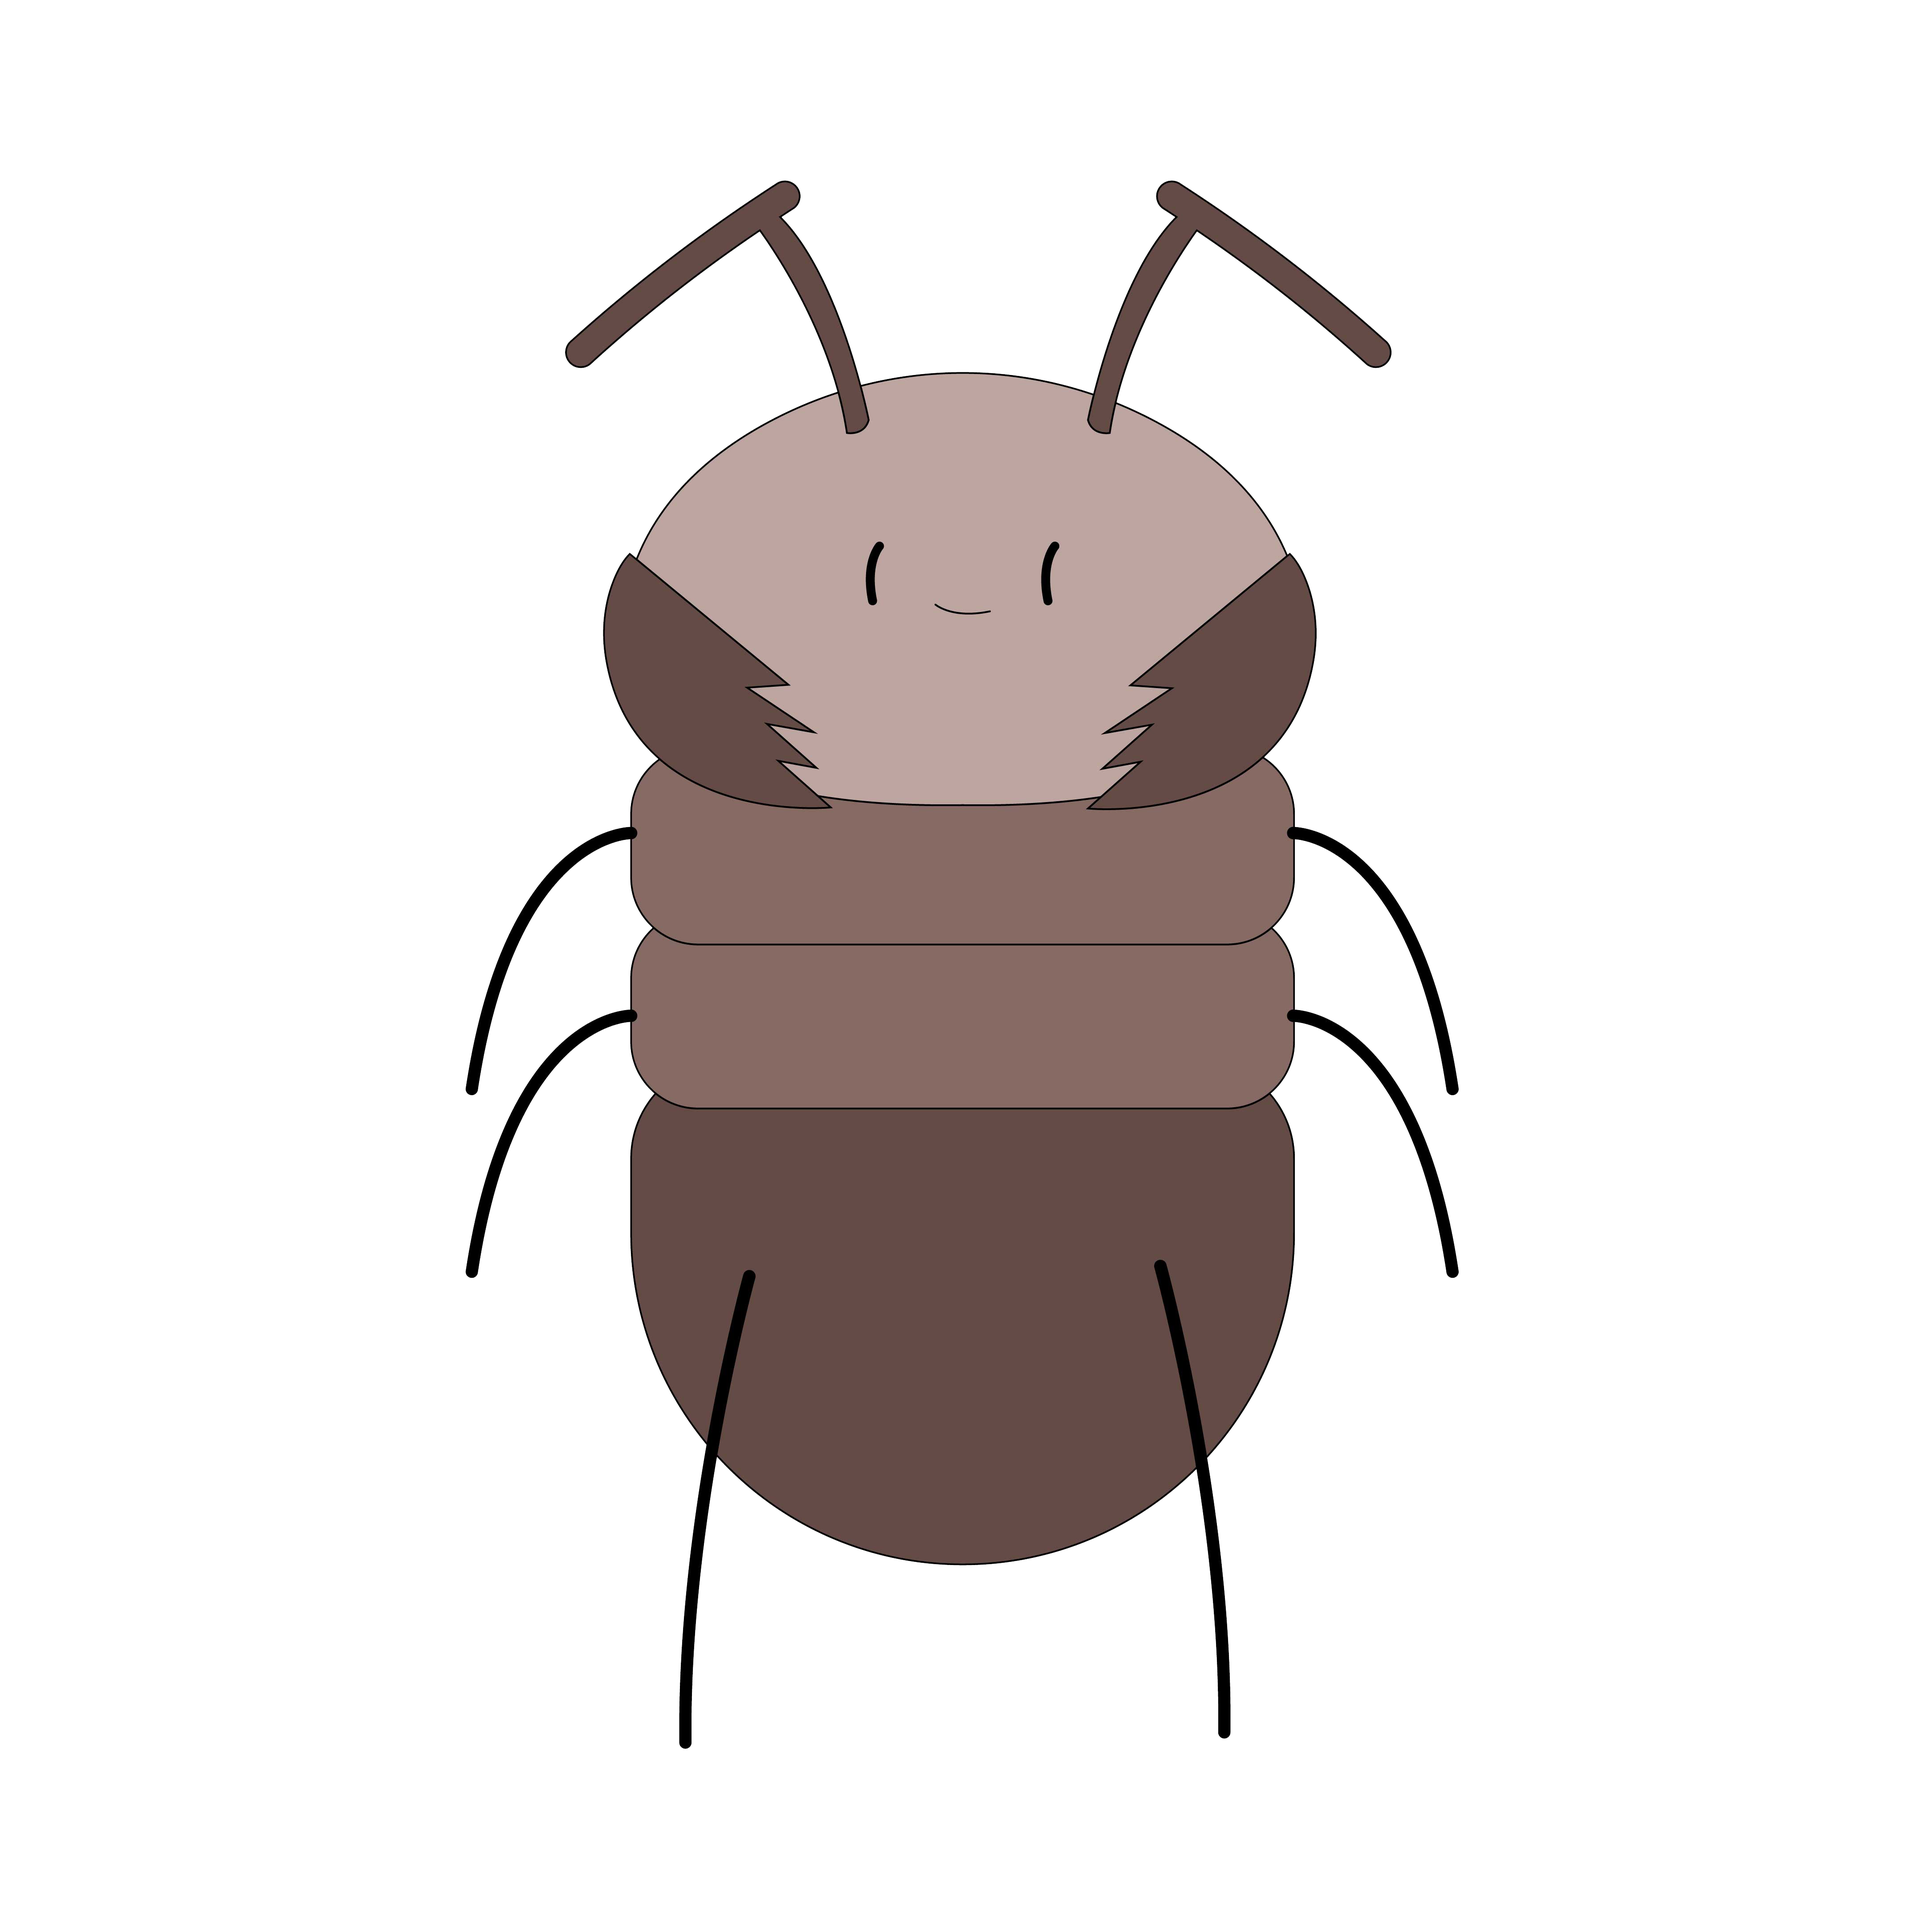
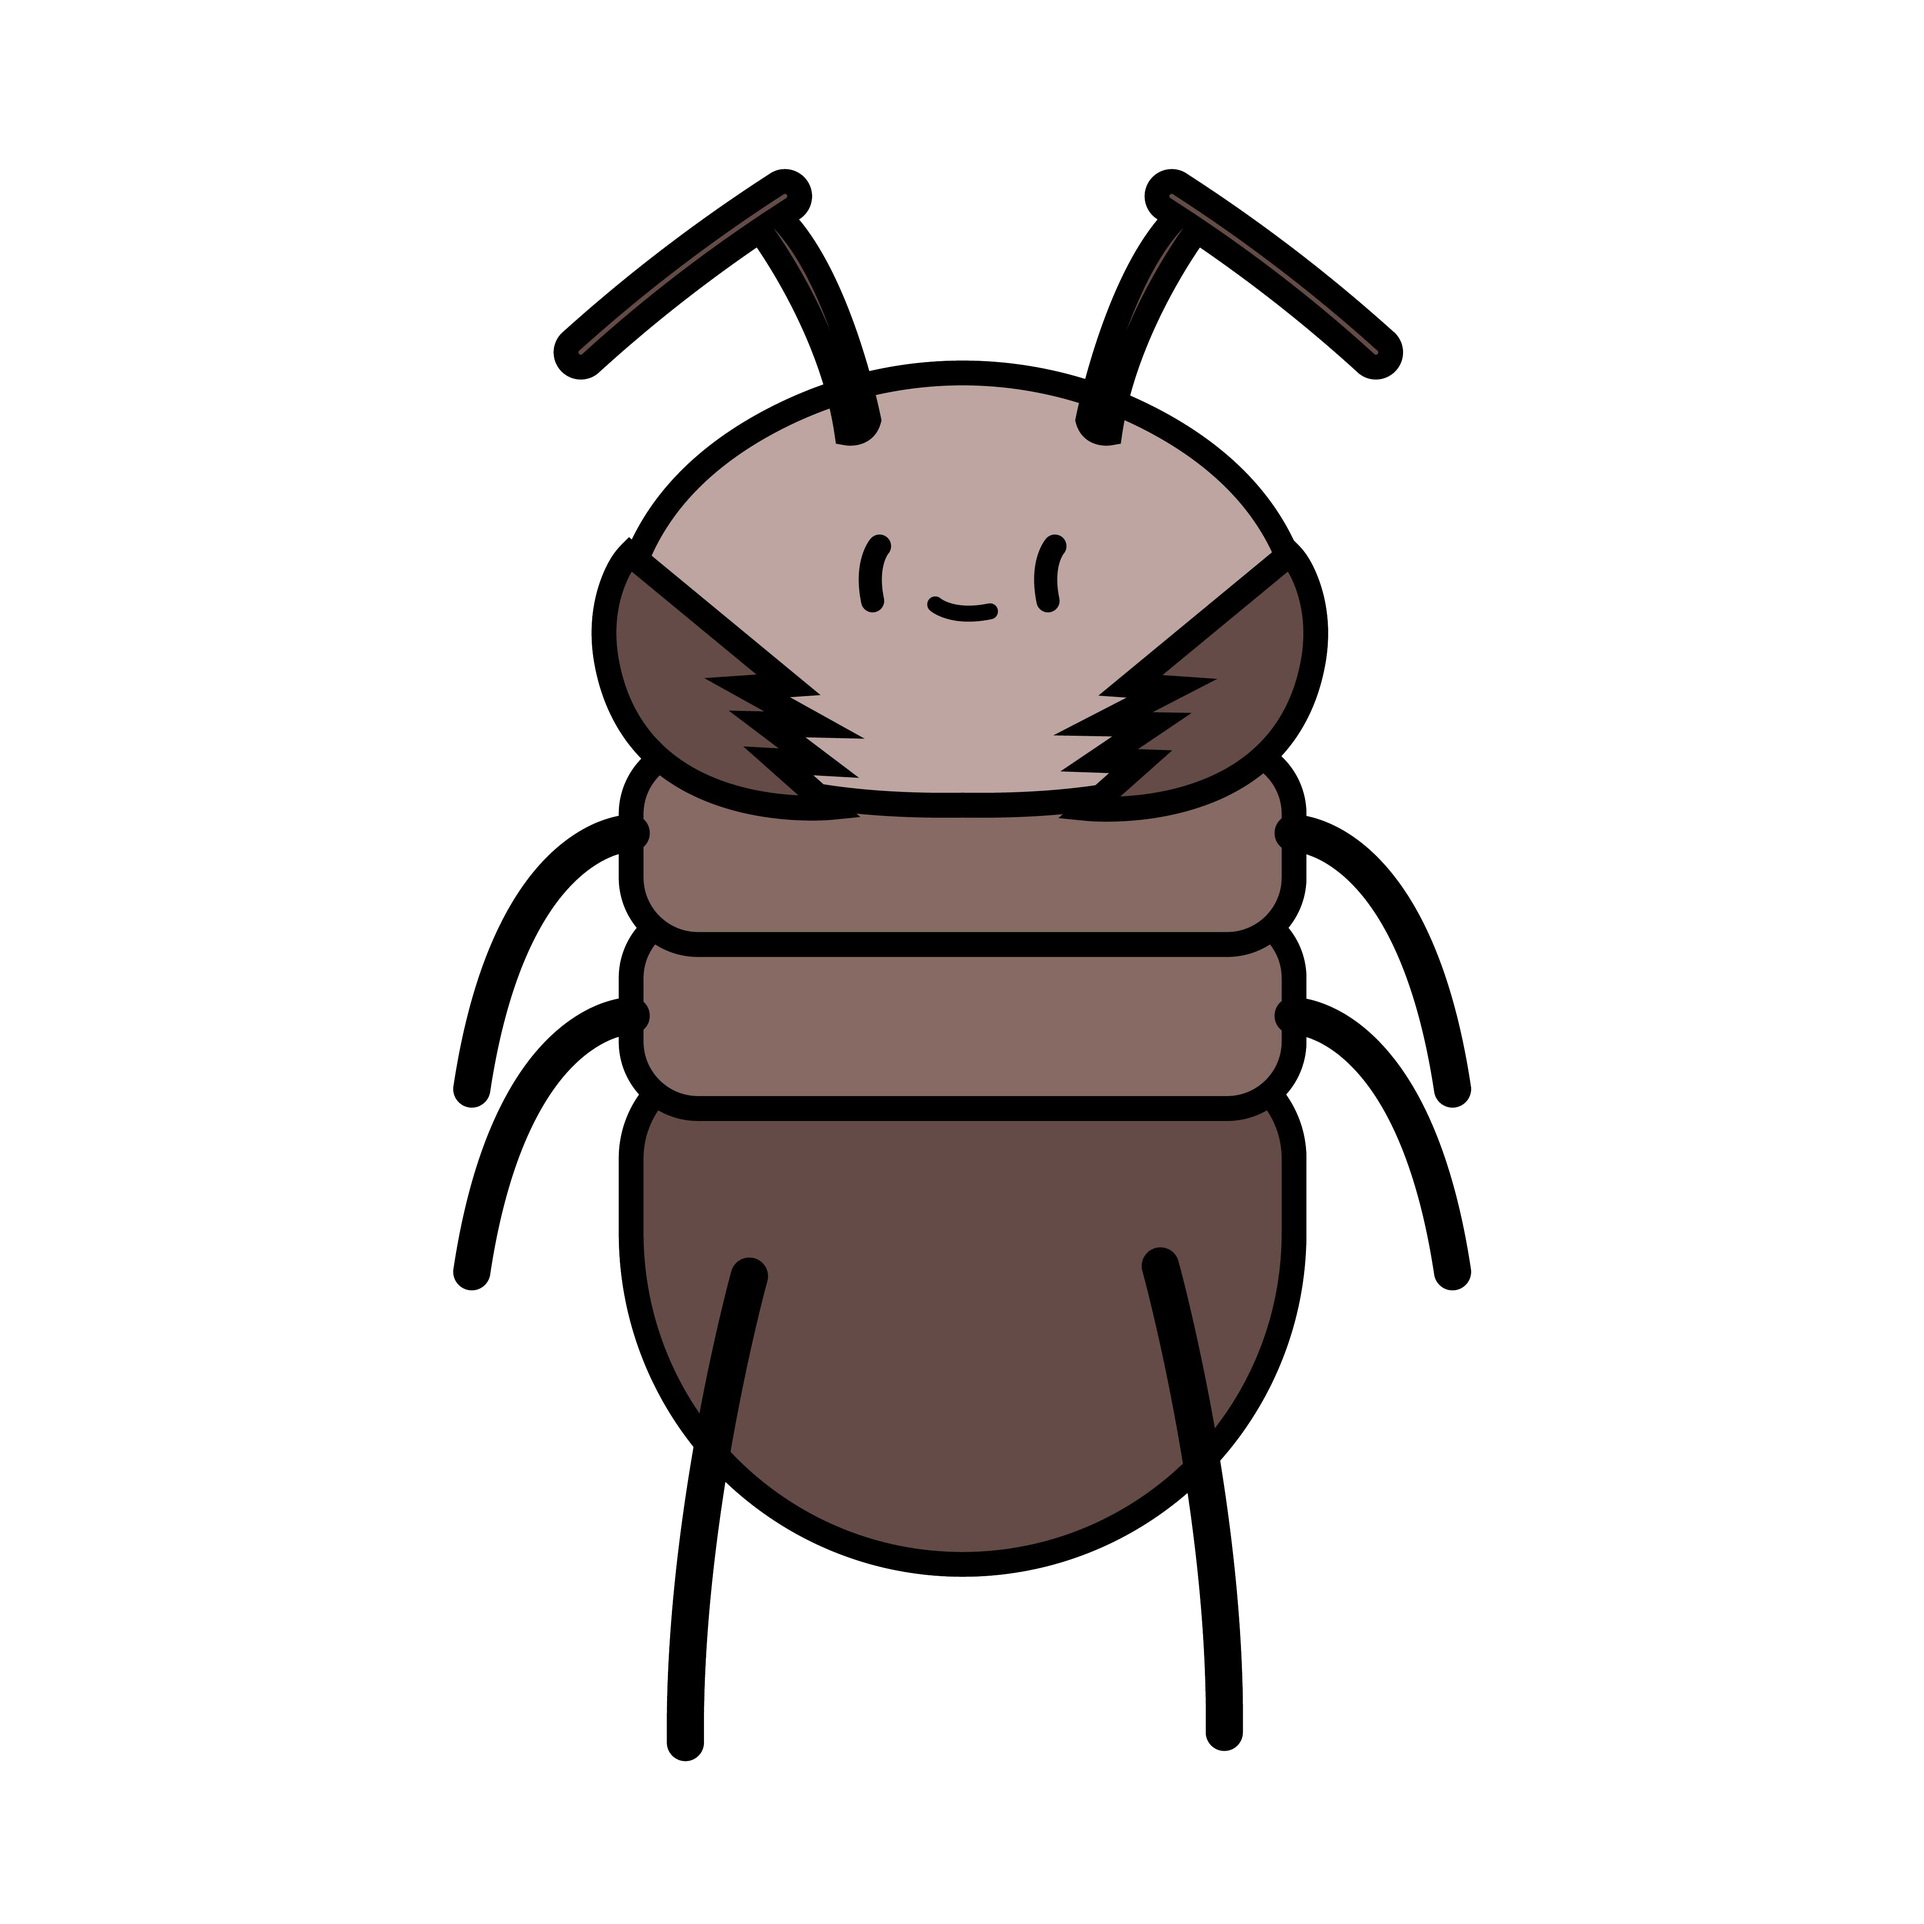
Исправил плохую прорисовку муравьев, теперь более мение видно контуры

diff --git a/src/com/company/ControlPanel.java b/src/com/company/ControlPanel.java
@@ -43,7 +43,7 @@ public class ControlPanel extends JPanel {
             int y = ThreadLocalRandom.current().nextInt(0, 1000 + 1);
 
             super.paintComponent(g);
-            g.drawImage(builder_ant,x,y,100,100,null);
+            g.drawImage(builder_ant,x,y,200,200,null);
 
         }
         else{
@@ -52,7 +52,7 @@ public class ControlPanel extends JPanel {
             int y = ThreadLocalRandom.current().nextInt(0, 1000 + 1);
 
             super.paintComponent(g);
-            g.drawImage(solder_ant,x,y,100,100,null);
+            g.drawImage(solder_ant,x,y,200,200,null);
         }
 
     }

diff --git a/src/com/company/Main.java b/src/com/company/Main.java
@@ -13,7 +13,7 @@ public class Main {
     public static void main(String[] args) {
         JFrame window = new AntExample("Hello ant");
         window.setVisible(true);
-        window.setSize(1000,1000);
+        window.setSize(1280,1024);
 
         // Спавнит муравья по таймеру
         ControlFrame Controller = new ControlFrame(window);

diff --git a/src/com/company/AntExample.java b/src/com/company/AntExample.java
@@ -11,7 +11,7 @@ public class AntExample extends JFrame {
 
         super(title);
         this.setDefaultCloseOperation(JFrame.EXIT_ON_CLOSE);
-        this.setSize(1000,1000);
+        this.setSize(5000,5000);
         this.setContentPane(mainPanel);
         this.pack();
     }
